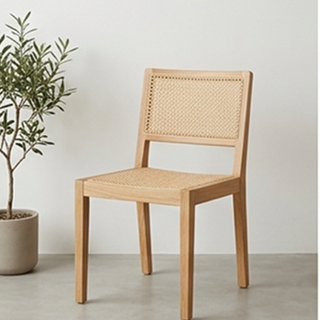
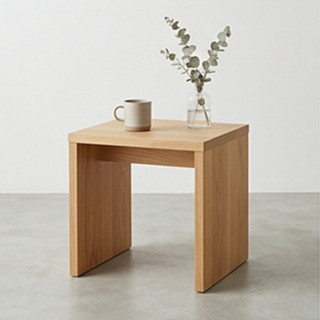
Feat: 상품 리스트 스크립트를 통해 뿌리기

diff --git a/index.html b/index.html
@@ -20,11 +20,11 @@
         </div>
         <nav class="nav">
           <ul>
-            <li><a href="#">BEST</a></li>
-            <li><a href="#">패브릭</a></li>
-            <li><a href="#">수납</a></li>
-            <li><a href="#">가구</a></li>
-            <li><a href="#">문구</a></li>
+            <li><a href="#best-item-sec">BEST</a></li>
+            <li><a href="#prod-list-sec" data-category="fabric">패브릭</a></li>
+            <li><a href="#prod-list-sec" data-category="storage">수납</a></li>
+            <li><a href="#prod-list-sec" data-category="furniture">가구</a></li>
+            <li><a href="#prod-list-sec" data-category="stationery">문구</a></li>
           </ul>
         </nav>
       </div>
@@ -45,25 +45,25 @@
     <section>
       <ul class="top-menu">
         <li>
-          <a href="#" class="top-menu-item">
+          <a href="#prod-list-sec" class="top-menu-item" data-category="fabric">
             <img src="./images/topmenu/round_p.png" alt="">
             <div>패브릭</div>
           </a>
         </li>
         <li>
-          <a href="#" class="top-menu-item">
+          <a href="#prod-list-sec" class="top-menu-item" data-category="storage">
             <img src="./images/topmenu/round_s.png" alt="">
             <div>수납</div>
           </a>
         </li>
         <li>
-          <a href="#" class="top-menu-item">
+          <a href="#prod-list-sec" class="top-menu-item" data-category="furniture">
             <img src="./images/topmenu/round_g.png" alt="">
             <div>가구</div>
           </a>
         </li>
         <li>
-          <a href="#" class="top-menu-item">
+          <a href="#prod-list-sec" class="top-menu-item" data-category="stationery">
             <img src="./images/topmenu/round_m.png" alt="">
             <div>문구</div>
           </a>
@@ -72,7 +72,7 @@
     </section>
 
     <!-- best item (TODO: Swiper 슬라이드 적용)  -->
-    <section class="section">
+    <section class="section" id="best-item-sec">
       <div class="section-inner">
         <div class="best-item-title">인기상품을 둘러보세요</div>
         <div>
@@ -153,12 +153,12 @@
     </section>
 
     <!-- prod list -->
-    <section class="section">
+    <section class="section" id="prod-list-sec">
       <div class="section-inner">
         <div class="prod-list-wrap">
           <!-- filter -->
           <div class="filter-wrap">
-            <div class="filter-title">전체</div>
+            <div class="filter-title">상품</div>
             <div class="filter-sub-title">검색 필터 설정</div>
             <ul class="filter-accordion">
               <li class="accordion-item">
@@ -202,47 +202,16 @@
             </div>
           </div>
           
-          <!-- prod list (TODO: 추후 JS로 나열) -->
+          <!-- prod list -->
           <div class="prod-list">
-            <ul class="prod-list-menu">
-              <li class="prod-list-menu-item">패브릭</li>
-              <li class="prod-list-menu-item">수납</li>
-              <li class="prod-list-menu-item">가구</li>
-              <li class="prod-list-menu-item">문구</li>
+            <ul class="prod-tabmenu">
+              <li class="prod-tabmenu-item" data-category="all">전체</li>
+              <li class="prod-tabmenu-item" data-category="fabric">패브릭</li>
+              <li class="prod-tabmenu-item" data-category="storage">수납</li>
+              <li class="prod-tabmenu-item" data-category="furniture">가구</li>
+              <li class="prod-tabmenu-item" data-category="stationery">문구</li>
             </ul>
             <ul class="prod-item">
-              <li>
-                <a href="#">
-                  <img src="./images/product/p_05.png" alt="포근한 침대">
-                  <div class="prod-color" style="background-color: white;"></div>
-                  <div class="prod-name">포근한 침대</div>
-                  <div class="prod-price">80,000원</div>
-                </a>
-              </li>
-              <li>
-                <a href="#">
-                  <img src="./images/product/p_05.png" alt="포근한 침대">
-                  <div class="prod-color" style="background-color: ivory;"></div>
-                  <div class="prod-name">포근한 침대</div>
-                  <div class="prod-price">80,000원</div>
-                </a>
-              </li>
-              <li>
-                <a href="#">
-                  <img src="./images/product/p_05.png" alt="포근한 침대">
-                  <div class="prod-color" style="background-color: lightgray;"></div>
-                  <div class="prod-name">포근한 침대</div>
-                  <div class="prod-price">80,000원</div>
-                </a>
-              </li>
-              <li>
-                <a href="#">
-                  <img src="./images/product/p_05.png" alt="포근한 침대">
-                  <div class="prod-color" style="background-color: burlywood;"></div>
-                  <div class="prod-name">포근한 침대</div>
-                  <div class="prod-price">80,000원</div>
-                </a>
-              </li>
             </ul>
           </div>
         </div>
@@ -261,5 +230,7 @@
       </div>
     </div>
   </footer>
+
+  <script src="./js/script.js"></script>
 </body>
 </html>

diff --git a/js/script.js b/js/script.js
@@ -1,0 +1,42 @@
+// 제품 데이터
+const prodData = [
+  {id: 1, category: 'fabric', img: '../images/product/f_01.png', color: 'white', name: '부드러운 이불', price: '40,000'},
+  {id: 2, category: 'fabric', img: '../images/product/f_02.png', color: 'ivory', name: '포근한 베개', price: '27,000'},
+  {id: 3, category: 'fabric', img: '../images/product/f_03.png', color: 'ivory', name: '푹신한 쿠션', price: '13,000'},
+  {id: 4, category: 'fabric', img: '../images/product/f_04.png', color: 'lightgray', name: '침구 세트(GRAY)', price: '104,000'},
+  {id: 5, category: 'fabric', img: '../images/product/f_05.png', color: 'white', name: '침구 세트(WHITE)', price: '104,000'},
+  {id: 6, category: 'fabric', img: '../images/product/f_06.png', color: 'ivory', name: '침구 세트(IVORY)', price: '104,000'},
+  {id: 7, category: 'furniture', img: '../images/product/g_01.png', color: 'ivory', name: '편안한 소파', price: '61,000'},
+  {id: 8, category: 'furniture', img: '../images/product/g_02.png', color: 'burlywood', name: '수납이 좋은 책장', price: '86,000'},
+  {id: 9, category: 'furniture', img: '../images/product/g_03.png', color: 'burlywood', name: '의자 세트(3)', price: '75,000'},
+  {id: 10, category: 'furniture', img: '../images/product/g_04.png', color: 'burlywood', name: '간이 테이블', price: '45,000'},
+  {id: 11, category: 'furniture', img: '../images/product/g_05.png', color: 'white', name: '옷 걸기에 좋은행거', price: '75,000'},
+  {id: 12, category: 'stationery', img: '../images/product/m_01.png', color: 'ivory', name: '수납력이 좋은 필통', price: '8,000'},
+  {id: 13, category: 'stationery', img: '../images/product/m_02.png', color: 'burlywood', name: '수납력이 좋은 박스', price: '8,000'},
+  {id: 14, category: 'stationery', img: '../images/product/m_03.png', color: 'white', name: '테이프 및 펜 거치대', price: '12,000'},
+  {id: 15, category: 'storage', img: '../images/product/s_01.png', color: 'white', name: '다용도 상자', price: '6,000'},
+  {id: 16, category: 'storage', img: '../images/product/s_02.png', color: 'burlywood', name: '2단 우드 수납 박스', price: '12,000'},
+  {id: 17, category: 'storage', img: '../images/product/s_03.png', color: 'white', name: '투명 수납함', price: '5,000'},
+  {id: 18, category: 'storage', img: '../images/product/s_04.png', color: 'white', name: '철제 바구니', price: '5,000'},
+  {id: 19, category: 'storage', img: '../images/product/s_05.png', color: 'ivory', name: '수건 바구니', price: '10,000'},
+]
+
+document.addEventListener('DOMContentLoaded', () => {
+  // 모든 제품 데이터를 상품 리스트에 뿌리기
+  const prodItemWrap = document.querySelector('.prod-item');
+  let prodHtmlContent = '';
+
+  prodData.forEach(item => {
+    prodHtmlContent += `
+      <li data-category="${item.category}">
+        <a href="#">
+          <img src="${item.img}" alt="${item.name}">
+          <div class="prod-color" style="background-color: ${item.color}"></div>
+          <div class="prod-name">${item.name}</div>
+          <div class="prod-price">${item.price}원</div>
+        </a>
+      </li>
+    `
+  });
+  prodItemWrap.innerHTML = prodHtmlContent;
+});

diff --git a/css/style.css b/css/style.css
@@ -215,22 +215,24 @@ button {
 }
 
 /* prod-list */
-.prod-list-menu {
+.prod-list {
+  width: 100%;
+}
+.prod-tabmenu {
   width: 100%;
   padding: 20px 0;
   display: flex;
   align-items: center;
-  justify-content: 30px;
   color: #777;
   gap: 52px;
   border-bottom: 1px solid #eaeaea;
   margin-bottom: 20px;
   font-size: 18px;
 }
-.prod-list-menu-item {
+.prod-tabmenu-item {
   cursor: pointer;
 }
-.prod-list-menu-item.active {
+.prod-tabmenu-item.active {
   color: #000;
   font-weight: 500;
 }